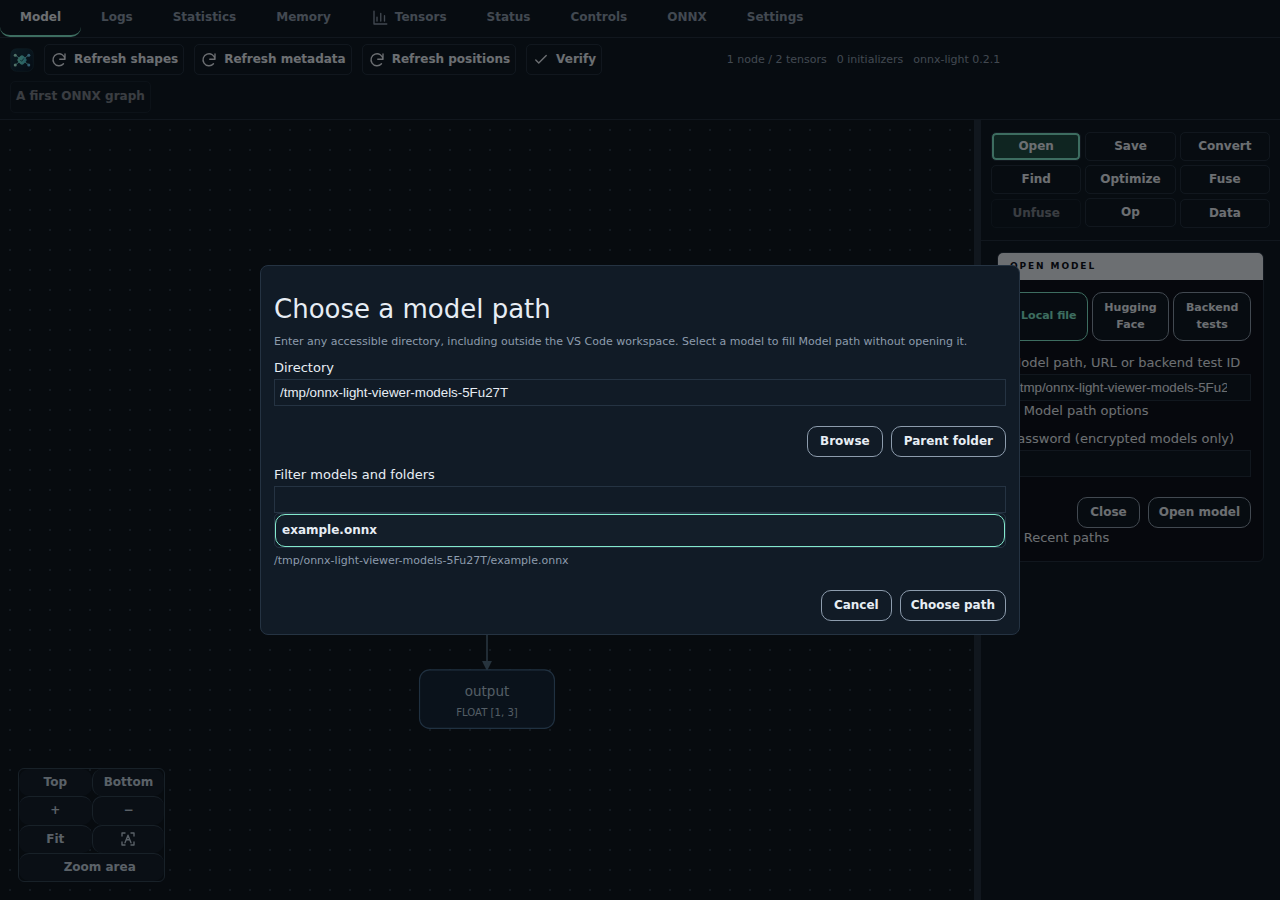
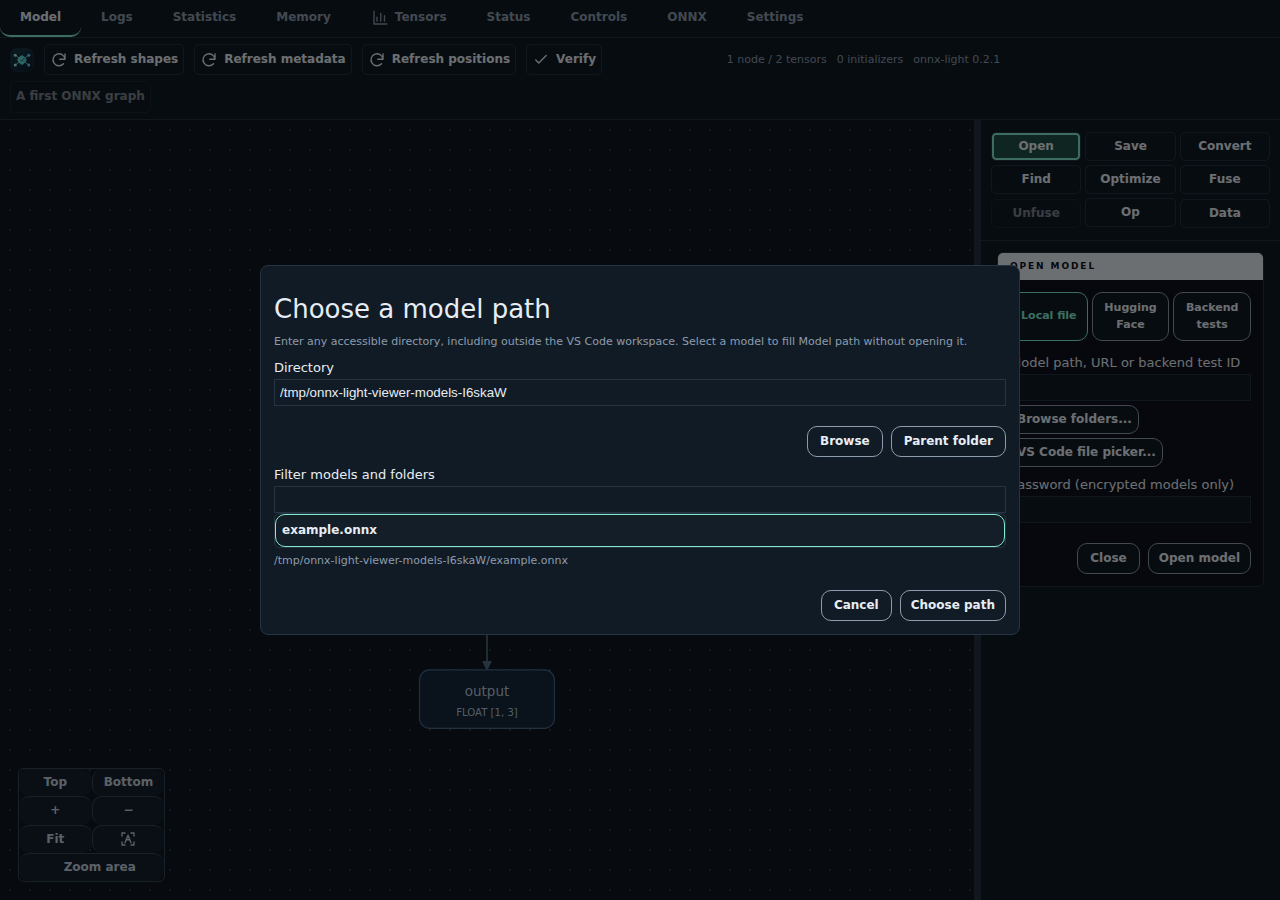
Show compact path picker buttons directly below Model path
Remove the Model path options dropdown while preserving both pickers. Reduce button padding and spacing, and refresh the focused tests and real UI screenshots.

Changed region(s): [[0.7812, 0.4044, 0.9688, 0.6222], [0.375, 0.6222, 0.4375, 0.6533]]

diff --git a/src/webview.ts b/src/webview.ts
@@ -349,12 +349,10 @@ export function webviewHtml(
             <form id="open-form">
               <label for="open-file">Model path, URL or backend test ID</label>
               <input id="open-file" type="text" required autocomplete="off" list="open-file-history"><datalist id="open-file-history"></datalist>
-              <details id="open-path-options"><summary>Model path options</summary>
-                <div class="path-picker-actions">
-                  <button id="open-path-browse" type="button" aria-haspopup="dialog" aria-controls="open-path-dialog">Browse folders...</button>
-                  <button id="open-native-picker" type="button">VS Code file picker...</button>
-                </div>
-              </details>
+              <div id="open-path-options" class="path-picker-actions" role="group" aria-label="Model path selection">
+                <button id="open-path-browse" type="button" aria-haspopup="dialog" aria-controls="open-path-dialog">Browse folders...</button>
+                <button id="open-native-picker" type="button">VS Code file picker...</button>
+              </div>
               <label for="open-password">Password (encrypted models only)</label>
               <input id="open-password" type="password" autocomplete="off">
               <progress id="open-progress" aria-label="Opening ONNX model" aria-describedby="open-progress-status" hidden></progress><p id="open-progress-status" role="status" hidden></p>

diff --git a/media/file-panels.js b/media/file-panels.js
@@ -139,7 +139,6 @@ function createFilePanels({
   function openPathBrowser(browse = true) {
     if (isReplacing()) return;
     invalidateNativePicker();
-    byId("open-path-options").open = false;
     selectedPath = undefined;
     byId("choose-open-path").disabled = true;
     byId("open-path-selection").textContent = "";
@@ -158,7 +157,6 @@ function createFilePanels({
   byId("choose-open-path").addEventListener("click", choosePath);
   byId("open-native-picker").addEventListener("click", () => {
     if (isReplacing()) return;
-    byId("open-path-options").open = false;
     byId("open-error").textContent = "";
     byId("open-native-picker").disabled = true;
     postMessage({ type: "select-model-path", requestId: ++nativePathRequest });
@@ -248,7 +246,6 @@ function createFilePanels({
     byId("open-browser").hidden = !hub;
     byId("open-browser").open = false;
     byId("open-path-options").hidden = source !== "local";
-    byId("open-path-options").open = false;
     byId("open-location-label").textContent = hub
       ? "Hugging Face repository / URL"
       : "Directory";

diff --git a/media/viewer.css b/media/viewer.css
@@ -1380,8 +1380,11 @@ button:disabled {
 .path-picker-actions {
   display: flex;
   flex-wrap: wrap;
-  gap: 8px;
-  margin-top: 8px;
+  gap: 4px;
+  margin-top: 4px;
+}
+.path-picker-actions button {
+  padding: 4px 6px;
 }
 #open-path-dialog {
   width: min(760px, 90vw);

diff --git a/docs/features/opening_models.rst b/docs/features/opening_models.rst
@@ -7,7 +7,7 @@ Opening models
 
 * **Open** toggles an embedded file selector in the right sidebar, offering
   **Local file**, **Hugging Face** or **Backend test**. Enter a model path or use
-  **Model path options** to choose a local file, then click **Open model**.
+  the buttons below it to choose a local file, then click **Open model**.
   The panel closes after a successful opening;
   **Open** can show it again. Errors and cancellations keep the panel open.
   Opening an ``.onnx`` or ``.pipe-onnx`` file in VS Code
@@ -24,8 +24,8 @@ Opening models
 Choosing a local path
 ---------------------
 
-**Model path options** offers both the existing **VS Code file picker** and
-**Browse folders**, an in-app dialog. The latter accepts any accessible directory,
+Buttons directly below **Model path** offer both the existing **VS Code file picker**
+and **Browse folders**, an in-app dialog. The latter accepts any accessible directory,
 including outside the VS Code workspace; enter a directory, click **Browse**,
 or use **Parent folder**. Filter the list, select a model and click **Choose path**
 (or double-click it) to fill **Model path** without loading the model.

diff --git a/docs/features.rst b/docs/features.rst
@@ -17,11 +17,11 @@ Opening models
 Open local ``.onnx`` and ``.pipe-onnx`` files, bundled demos or public Hugging Face
 models with persistent caching. See :doc:`features/opening_models`.
 No authentication or automatic external weight downloads.
-**Model path options** keeps the VS Code file picker and adds an in-app folder
+Buttons below **Model path** offer the VS Code file picker and an in-app folder
 dialog for paths outside the workspace.
 
 .. figure:: _static/feature-opening.png
-   :alt: Open panel with Model path options offering in-app browsing and the VS Code file picker.
+   :alt: Open panel with compact buttons below Model path for in-app browsing and the VS Code file picker.
    :width: 100%
 
    Choose how to fill Model path without loading a model.

diff --git a/docs/features/inspection.rst b/docs/features/inspection.rst
@@ -11,7 +11,7 @@ and optimization controls. **Convert** runs a separate installed Python exporter
 see :doc:`exporting_models`.
 **Open** and **Save** toggle their own sidebar panels for file selection and
 save options; opening either hides the other. **Open** offers optional path
-pickers under **Model path options**; **Save** keeps its inline folder browser.
+pickers directly below **Model path**; **Save** keeps its inline folder browser.
 All sidebar panels have an inverted-color title bar using the compact uppercase
 **INSPECTOR** typography.
 
